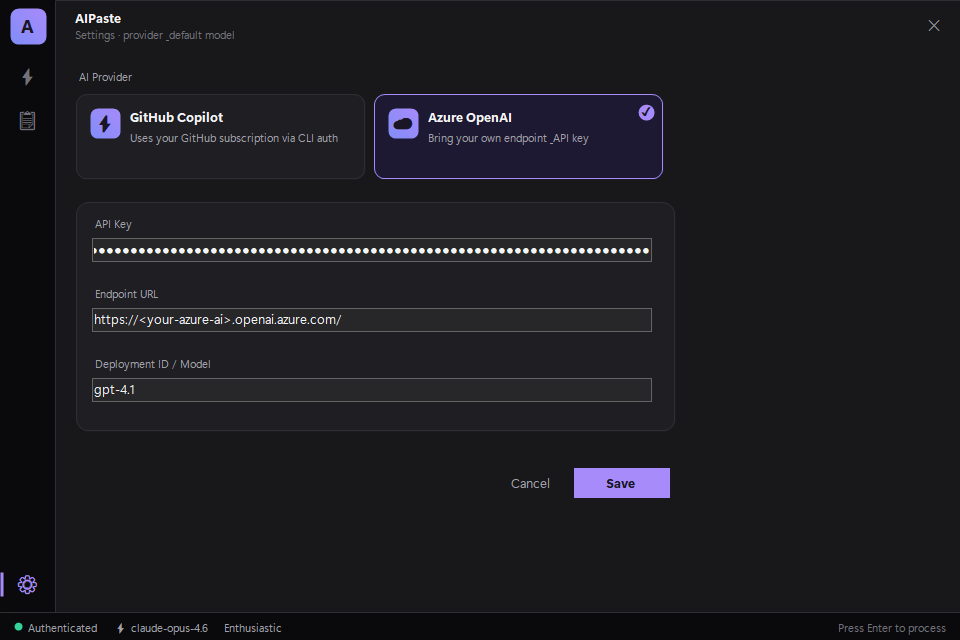
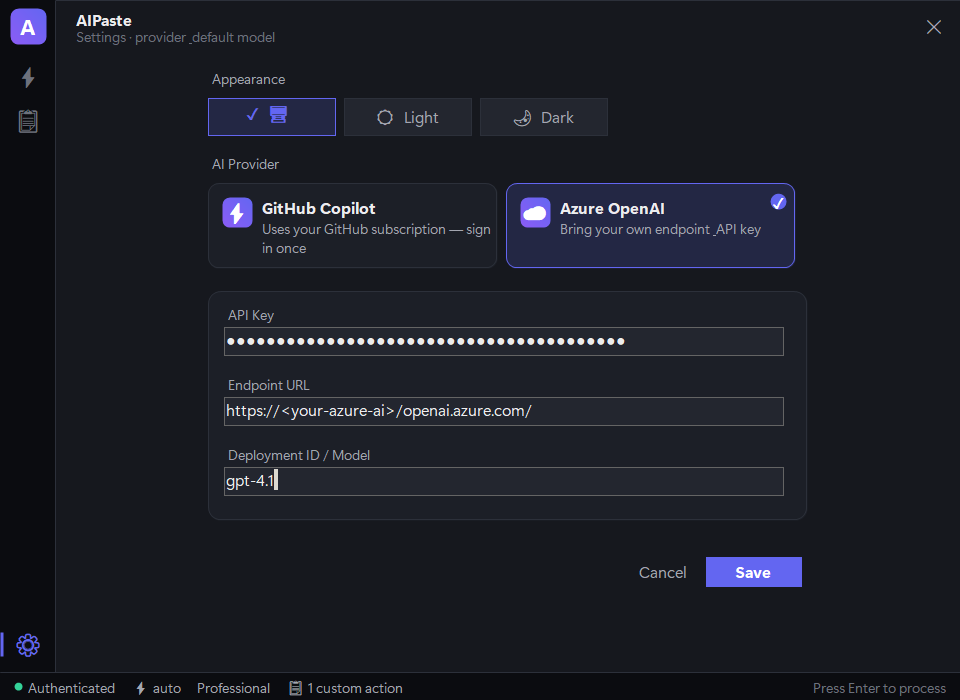
docs: update README for v2.2.0 and refresh screenshots
- Document theme switcher, Copilot login button, %APPDATA% config location
- Update install steps for single-file portable exe
- Refresh all four screenshots to the current themed UI

diff --git a/README.md b/README.md
@@ -5,7 +5,18 @@ A Windows system-tray companion that **transforms your clipboard with AI**. Rewr
 ![.NET](https://img.shields.io/badge/.NET-9.0-blue)
 ![Platform](https://img.shields.io/badge/Platform-Windows-lightgrey)
 ![License](https://img.shields.io/badge/License-MIT-green)
-![Version](https://img.shields.io/badge/Version-2.0.0-purple)
+![Version](https://img.shields.io/badge/Version-2.2.0-purple)
+
+---
+
+## 🆕 What's new in **v2.2.0**
+
+- **One-click Copilot login** – A new **Open Copilot to login** button in Settings opens the bundled Copilot CLI and copies `/login` to your clipboard, so signing in is just paste + Enter.
+- **Pinned Copilot CLI** – The bundled CLI no longer self-updates (`COPILOT_AUTO_UPDATE=false`), keeping it version-matched to the SDK so sign-in can't break from version drift.
+- **Stable config location** – Settings, custom actions and credentials now live in `%APPDATA%\AIPaste\config.json`, so they survive app updates (the portable build previously stored them in a volatile temp folder).
+- **Single-file portable EXE** – One self-contained `AIPaste.exe` (bundles .NET + the Copilot CLI); no install required.
+- **Theme switcher** – Choose **System**, **Light**, or **Dark** from Settings → Appearance; the app re-skins instantly.
+- **UI fixes** – The tray icon now shows in the single-file build, Settings content is centered with the Save button always visible, and the duplicate timing label / Regenerate button were removed (timing stays in the status bar).
 
 ---
 
@@ -54,6 +65,7 @@ A complete UI redesign and rearchitecture. AIPaste went from a stack of basic Wi
 - **Translation** – Hindi & Gujarati out of the box (more easy to add)
 - **Custom Actions** – Reusable AI prompts with `{text}` placeholder; manage from the in-app pane
 - **Streaming output** – AI result appears live, character by character
+- **Theme** – System · Light · Dark, switchable in Settings (follows Windows by default)
 - **Status bar** – Always-on auth indicator + current model
 - **Single-instance** – Activate the running tray app instead of launching duplicates
 - **System tray** – Quietly minimised; one click to open, one click to quit
@@ -74,10 +86,10 @@ A complete UI redesign and rearchitecture. AIPaste went from a stack of basic Wi
 
 ### Option 1 — Download Release (recommended)
 
-1. Grab the latest from [Releases](../../releases)
-2. Extract the archive somewhere persistent (e.g. `C:\Program Files\AIPaste\`)
-3. Run `AIPaste.exe`
-4. *(Optional)* Right-click → **Pin to taskbar** for one-click access
+1. Download the latest `AIPaste.exe` from [Releases](../../releases) — it's a single self-contained file (bundles .NET + the Copilot CLI)
+2. Place it somewhere persistent (e.g. `%LOCALAPPDATA%\AIPaste\`); keep the path stable so a taskbar pin keeps working across updates
+3. Run `AIPaste.exe` — it starts in the system tray
+4. *(Optional)* Right-click the taskbar entry → **Pin to taskbar**; then `Win`+`<number>` opens it instantly (single-instance reuses the running app)
 
 ### Option 2 — Build from Source
 
@@ -95,11 +107,21 @@ The build pulls the bundled GitHub Copilot CLI on first compile (~50 MB download
 
 When you first run AIPaste, it'll prompt you to configure a provider. Inside the popup, click the **⚙ Settings** icon at the bottom of the rail.
 
+### Appearance
+
+Choose a theme at the top of **Settings → Appearance**:
+
+- **🖥 System** – follow the Windows light/dark setting (default)
+- **☀ Light** – always light
+- **🌙 Dark** – always dark
+
+The app re-skins instantly and your choice is saved.
+
 ### GitHub Copilot
 
 1. In **Settings**, select the **⚡ GitHub Copilot** card
-2. Open a terminal and run `copilot` (use the **Copy** button to copy the command)
-3. Type `/login` inside the Copilot CLI and follow the browser flow
+2. Click **🔓 Open Copilot to login** — this opens the bundled Copilot CLI and copies `/login` to your clipboard
+3. In the Copilot terminal, paste (`Ctrl+V`) and press **Enter**, then follow the browser flow
 4. Back in AIPaste click **↻ Re-check** — status pill should turn green ✓ Authenticated
 5. Choose your **Default Model** and click **Save**
 
@@ -114,7 +136,7 @@ When you first run AIPaste, it'll prompt you to configure a provider. Inside the
 4. In AIPaste **Settings**, select the **☁ Azure OpenAI** card
 5. Fill in API key, endpoint, and deployment ID, then **Save**
 
-API keys are encrypted with Windows DPAPI before being stored in `config.json`.
+API keys are encrypted with Windows DPAPI before being stored in `config.json` (located at `%APPDATA%\AIPaste\config.json`).
 
 ---
 
@@ -204,7 +226,7 @@ AIPaste/
 │       ├── ProcessPane.cs      # Default pane — chip toolbar + clipboard + result
 │       ├── SettingsPane.cs     # Provider · auth · default model
 │       └── CustomActionsPane.cs# List + detail editor for saved prompts
-└── config.json                 # User configuration (auto-created next to the EXE)
+└── config.json                 # User configuration (stored in %APPDATA%\AIPaste)
 ```
 
 ---
@@ -213,7 +235,7 @@ AIPaste/
 
 - API keys are encrypted with Windows DPAPI (per-user) before persisting to `config.json`
 - All data stays local — nothing is sent anywhere except your configured AI provider
-- Configuration lives next to `AIPaste.exe` (portable)
+- Configuration lives in `%APPDATA%\AIPaste\config.json` (per-user; survives app updates)
 
 ---
 
